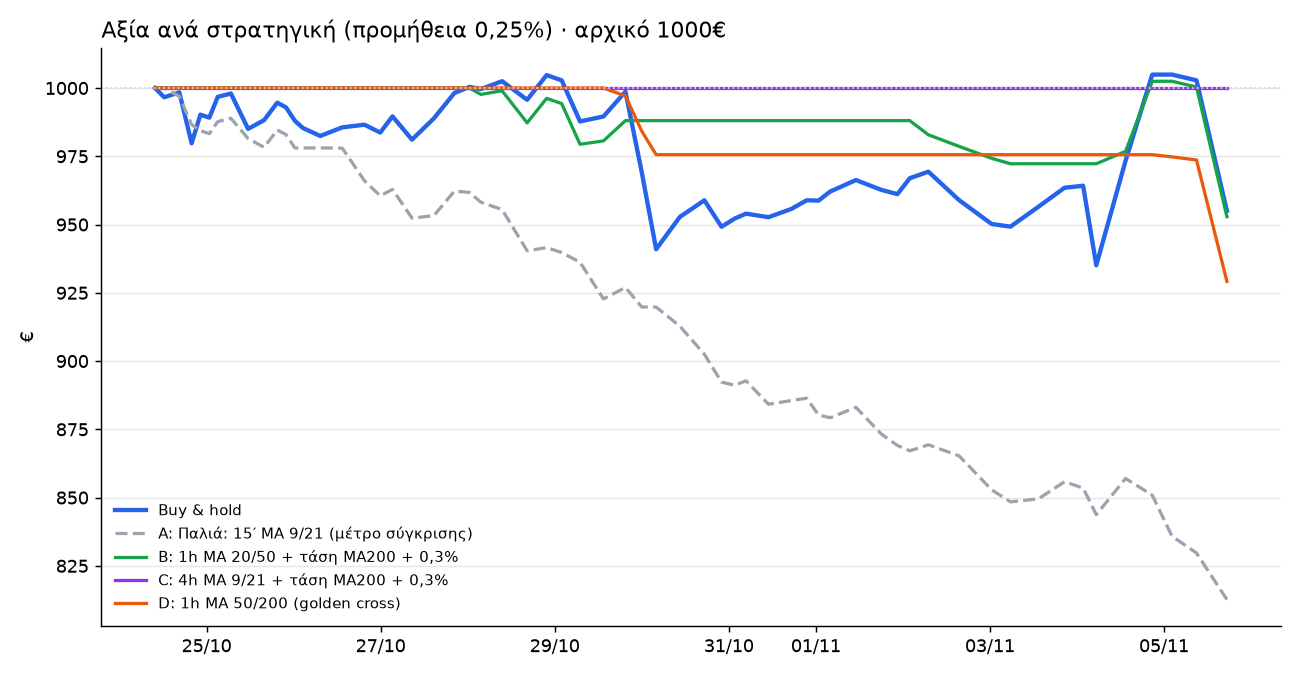
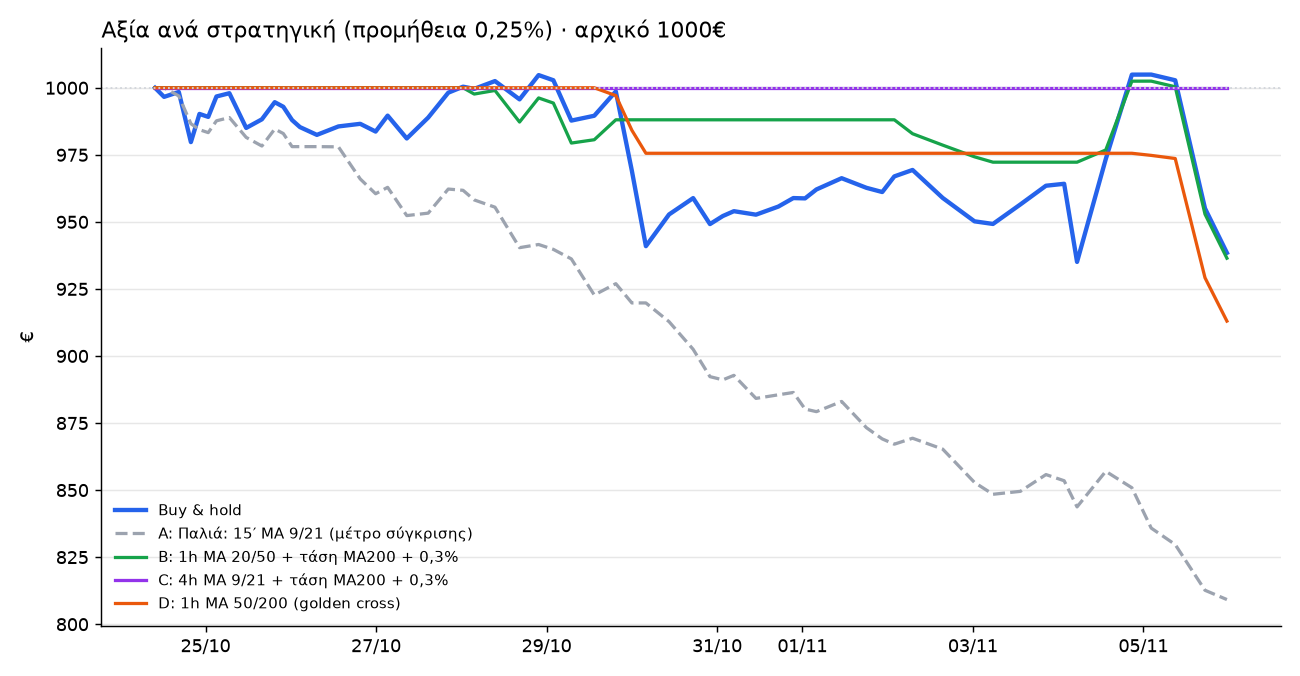
paper run 2026-11-05_21:31

diff --git a/RESULTS.md b/RESULTS.md
@@ -1,18 +1,18 @@
 # 📈 Paper trading: αποτελέσματα
 
-**Ενημέρωση:** 05/11/2026 17:21 · **Έναρξη:** 2026-10-24 09:47 · **Κεφάλαιο:** 1000€ ψεύτικα ανά στρατηγική (μισά BTC, μισά ETH)
+**Ενημέρωση:** 05/11/2026 23:31 · **Έναρξη:** 2026-10-24 09:47 · **Κεφάλαιο:** 1000€ ψεύτικα ανά στρατηγική (μισά BTC, μισά ETH)
 
-> Buy & hold: **955.03€ (-4.50%)** · Καλύτερη στρατηγική τώρα: **C** με 1000.00€ (+0.00%), πάνω από το buy & hold
+> Buy & hold: **938.46€ (-6.15%)** · Καλύτερη στρατηγική τώρα: **C** με 1000.00€ (+0.00%), πάνω από το buy & hold
 
 ![Γράφημα](results_chart.png)
 
 | | Στρατηγική | Αξία @0,25% | Αξία @0,09% | Trades | Κερδοφόρα | Προμήθειες @0,25% | Max DD | Θέση BTC / ETH |
 |---|---|---:|---:|---:|---:|---:|---:|---|
-| **A** | Παλιά: 15′ MA 9/21 (μέτρο σύγκρισης) | 812.65€ (-18.73%) | 897.57€ (-10.24%) | 124 | 6/62 (10%) | 140.38€ | -18.7% | ⚪ έξω / ⚪ έξω |
-| **B** | 1h MA 20/50 + τάση MA200 + 0,3% | 952.88€ (-4.71%) | 958.98€ (-4.10%) | 8 | 1/3 (33%) | 9.81€ | -4.9% | 🟢 μέσα / 🟢 μέσα |
+| **A** | Παλιά: 15′ MA 9/21 (μέτρο σύγκρισης) | 809.19€ (-19.08%) | 895.17€ (-10.48%) | 126 | 6/63 (10%) | 142.41€ | -19.1% | ⚪ έξω / ⚪ έξω |
+| **B** | 1h MA 20/50 + τάση MA200 + 0,3% | 936.46€ (-6.35%) | 942.45€ (-5.76%) | 8 | 1/3 (33%) | 9.81€ | -6.6% | 🟢 μέσα / 🟢 μέσα |
 | **C** | 🏆 4h MA 9/21 + τάση MA200 + 0,3% | 1000.00€ (+0.00%) | 1000.00€ (+0.00%) | 0 | - | 0.00€ | 0.0% | ⚪ έξω / ⚪ έξω |
-| **D** | 1h MA 50/200 (golden cross) | 929.17€ (-7.08%) | 932.13€ (-6.79%) | 4 | 0/1 (0%) | 4.88€ | -7.1% | 🟢 μέσα / 🟢 μέσα |
-| | Buy & hold | 955.03€ (-4.50%) | | 0 | | 0€ | -6.9% | 🟢 / 🟢 |
+| **D** | 1h MA 50/200 (golden cross) | 913.01€ (-8.70%) | 915.93€ (-8.41%) | 4 | 0/1 (0%) | 4.88€ | -8.7% | 🟢 μέσα / 🟢 μέσα |
+| | Buy & hold | 938.46€ (-6.15%) | | 0 | | 0€ | -6.9% | 🟢 / 🟢 |
 
 **Πώς διαβάζεται:** «@0,25%» = με προμήθεια Kraken, «@0,09%» = με προμήθεια Revolut X (taker). Τα σήματα είναι ίδια, αλλάζει μόνο το κόστος. Max DD = μεγαλύτερη πτώση από κορυφή.
 
